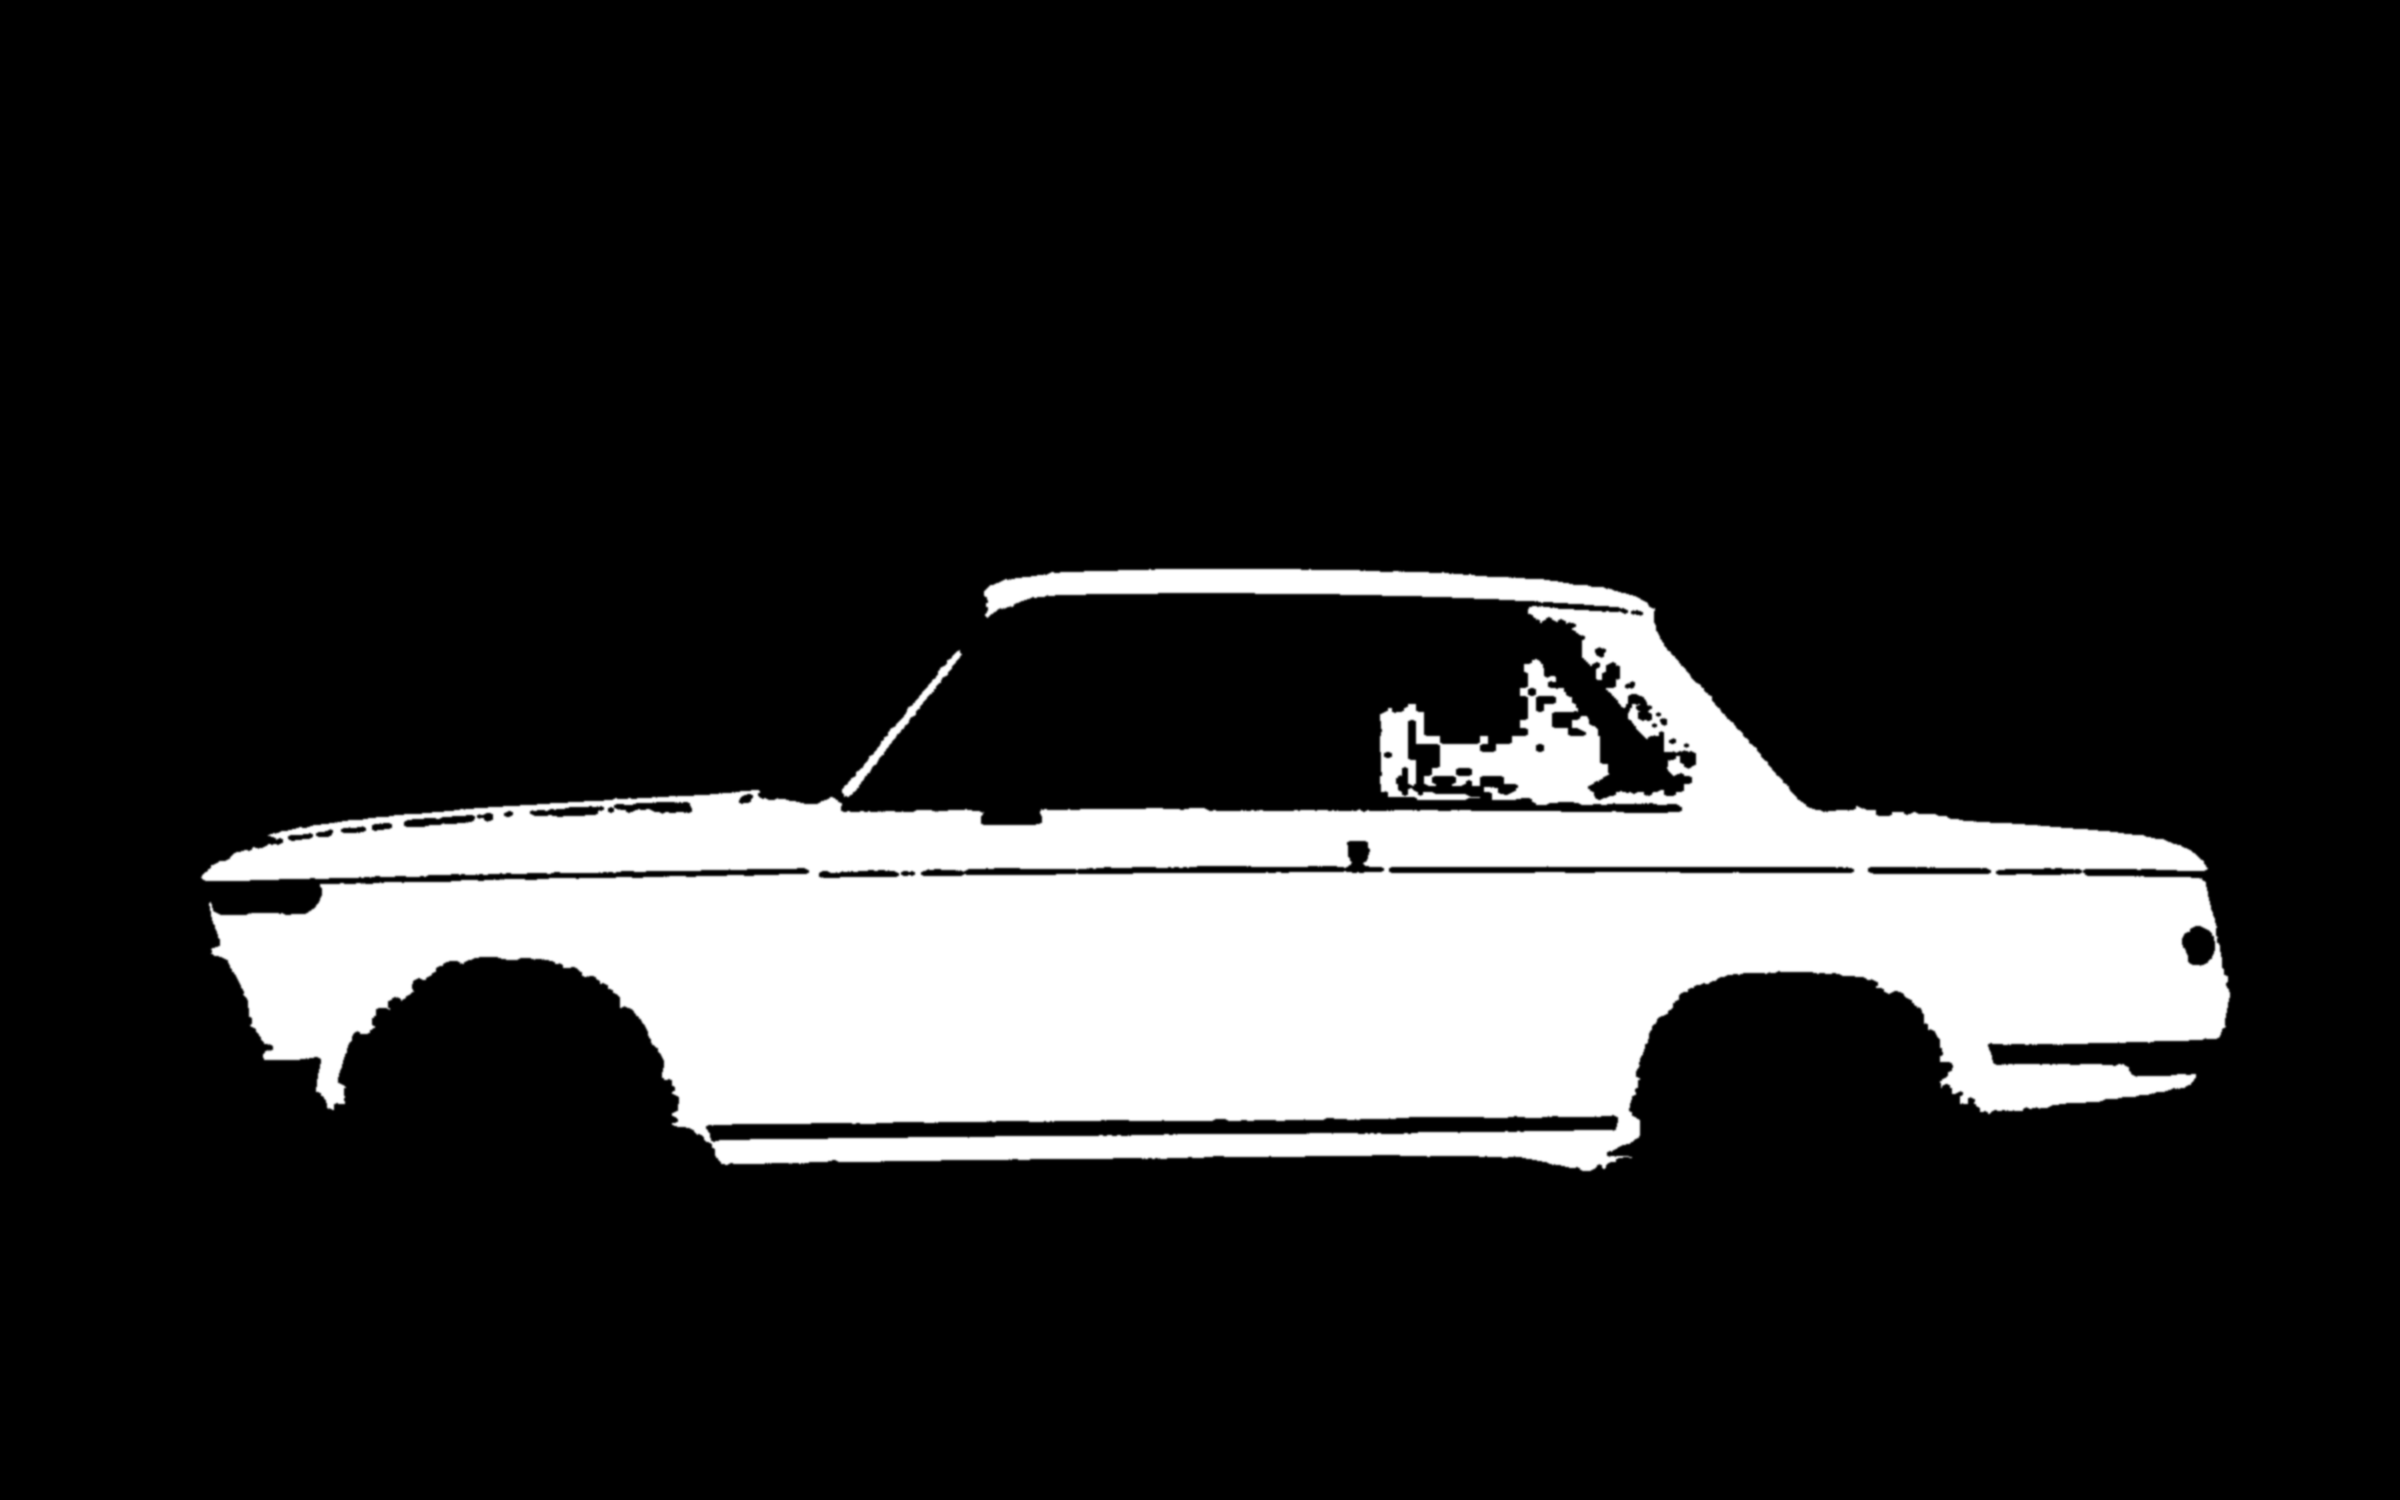
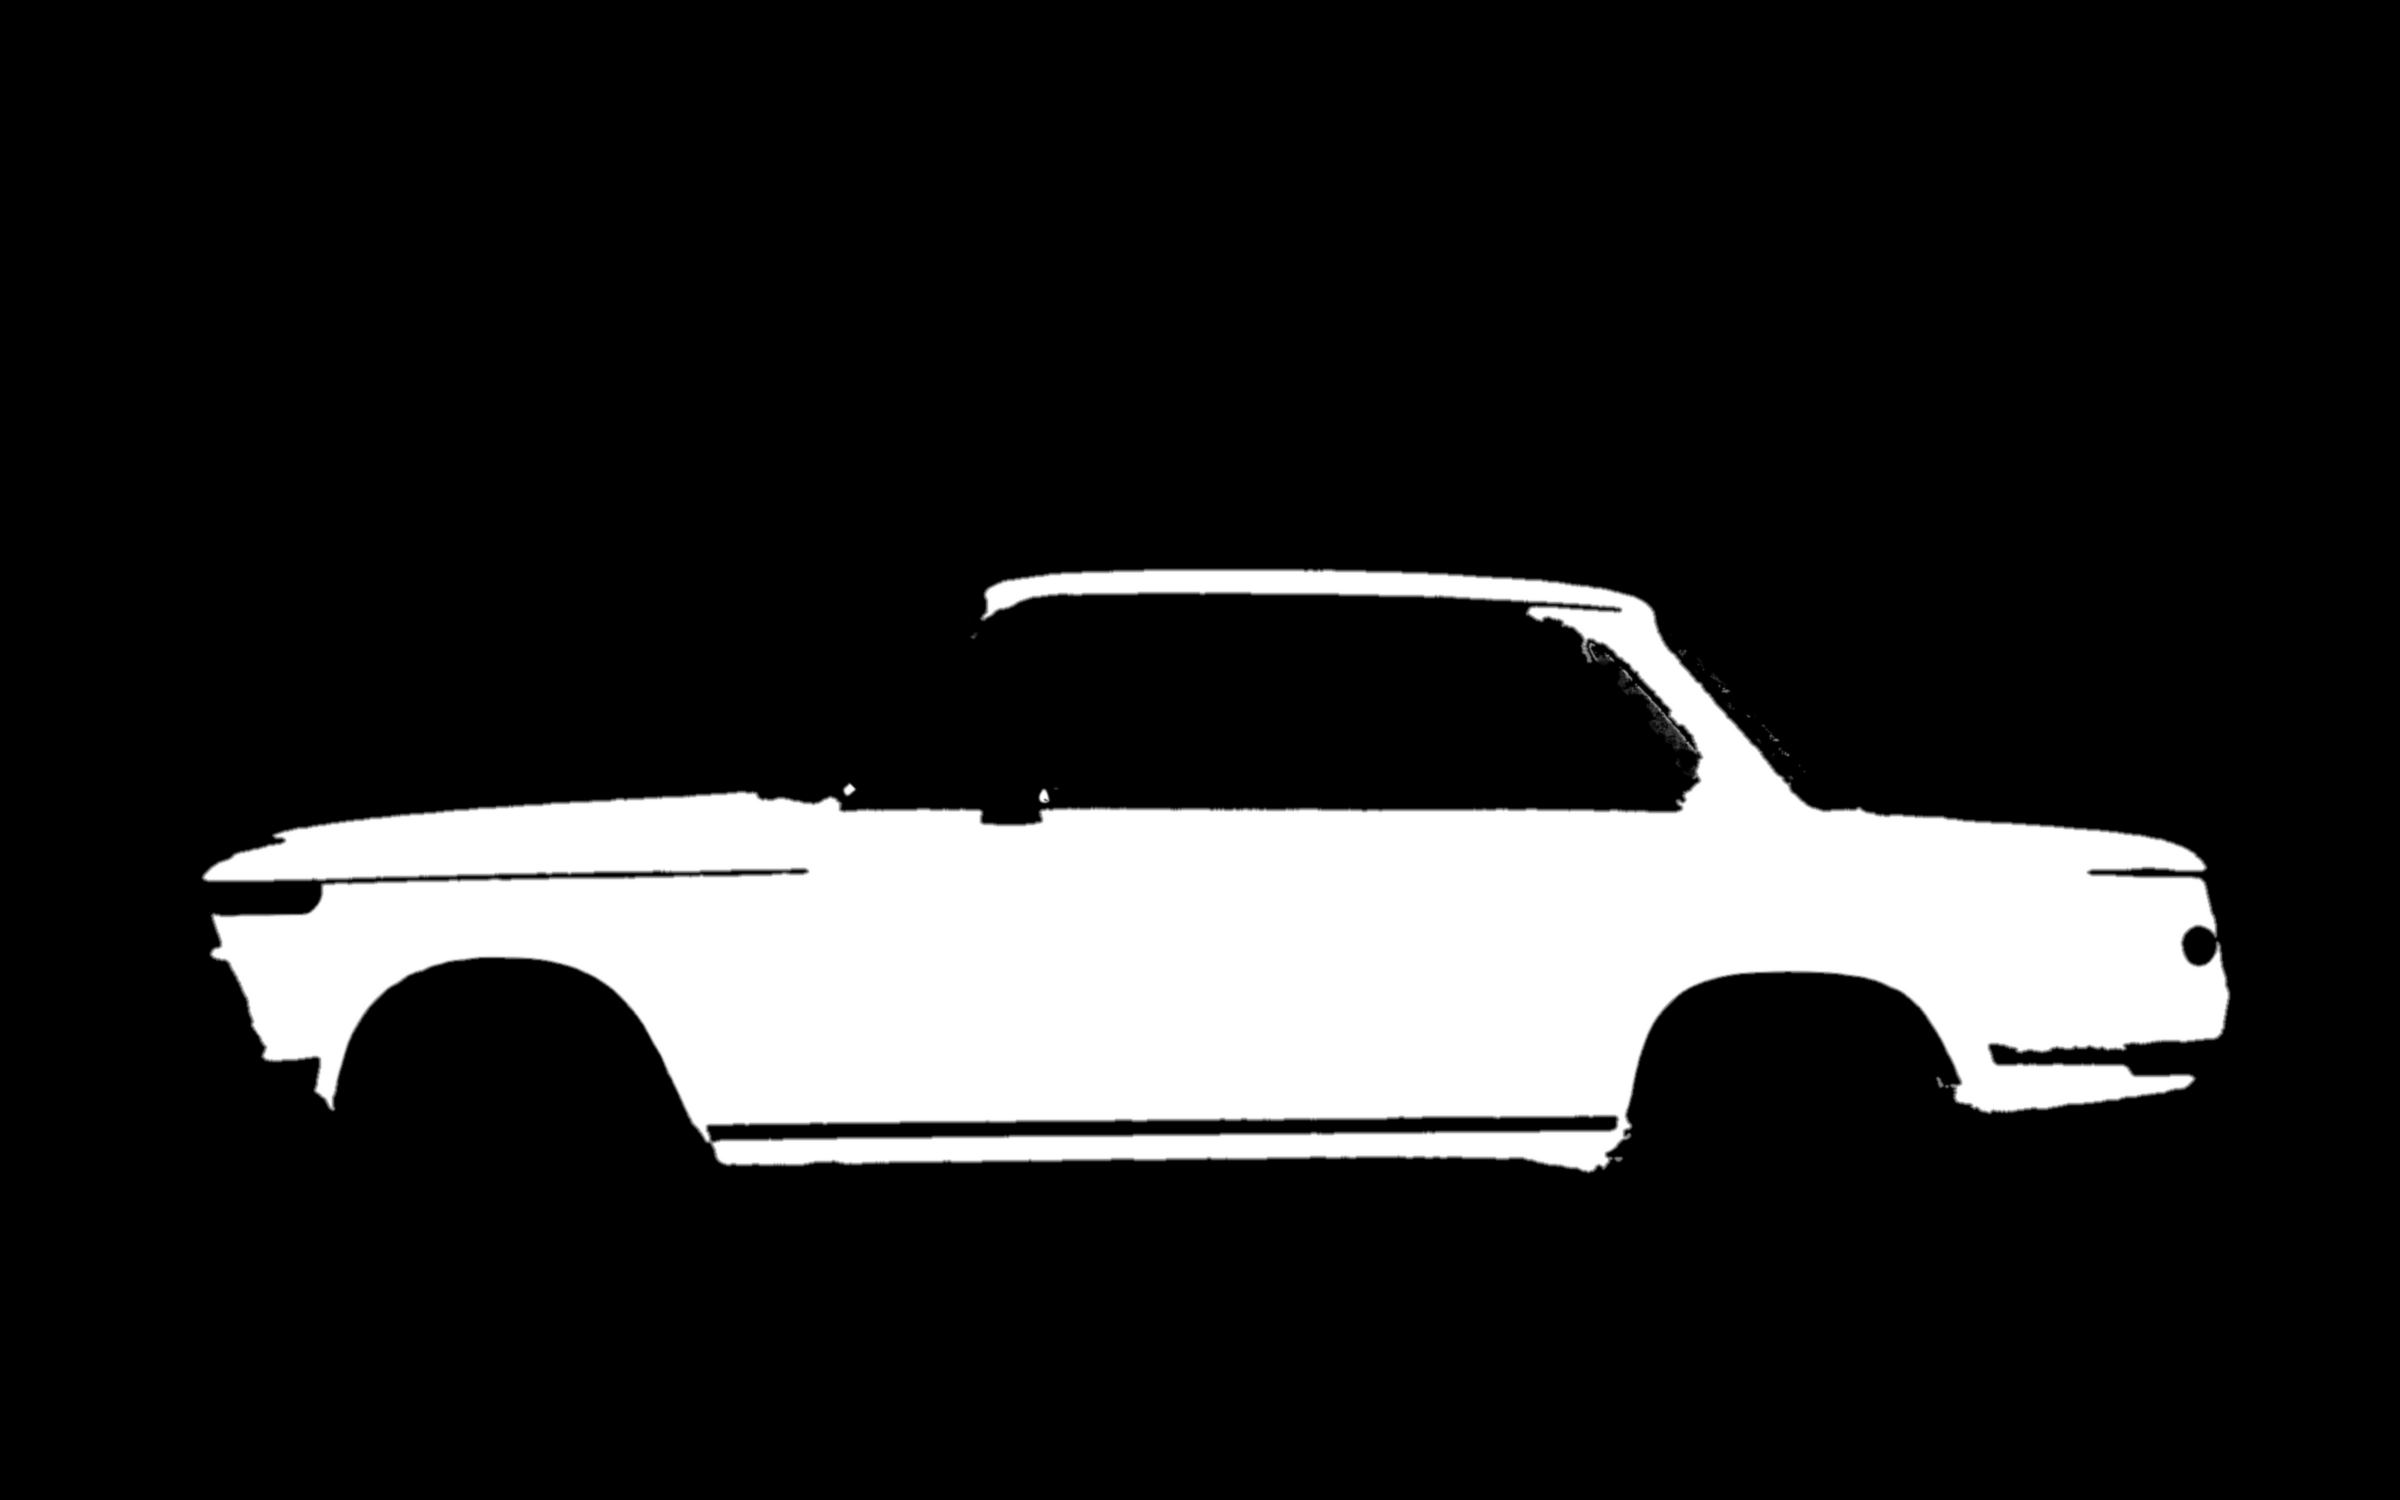
Konfigurator: Lackmasken ohne Flecken und Blockartefakte, Helligkeit linear umgerechnet (Schwarz bleibt schwarz, Glanz bleibt hell)
Claude-Session: https://claude.ai/code/session_01VYM2HYM7SGZ4tfKpLsvwsL

diff --git a/taeubert-website/konfigurator.html b/taeubert-website/konfigurator.html
@@ -1699,12 +1699,13 @@
       if (mask[i] > 230) { hL[Math.min(200, Math.round(L * 2))]++; hC[Math.min(300, Math.round(C * 2))]++; n++; }
     }
     const med = h => { let acc = 0; for (let k = 0; k < h.length; k++) { acc += h[k]; if (acc >= n / 2) return k / 2; } return 50; };
-    const Lm = med(hL), Cm = Math.max(1, med(hC)), gain = tL > 78 ? 0.8 : 1;
+    const Lm = med(hL), Cm = Math.max(1, med(hC)), Ym = Math.pow((Lm + 16) / 116, 3), tY = Math.pow((tL + 16) / 116, 3);
     for (let p = 0, i = 0; p < N; p++, i += 4) {
       const m = mask[i]; if (m < 4) continue;
       const w = m / 255, L = Ls[p], k = Math.min(Cs[p] / Cm, 1);
-      let nL = Math.max(0, Math.min(100, tL + (L - Lm) * gain));
-      if (L > Lm) { const spec = 1 - k; nL = nL * (1 - spec) + Math.max(nL, L) * spec; }   // farblose Glanzlichter bleiben hell
+      const Y = Math.pow((L + 16) / 116, 3);   // Helligkeit linear wie Licht: Schatten multiplikativ (Schwarz bleibt schwarz), Glanz zur Weiß-Seite
+      const nY = Y <= Ym ? tY * Y / Ym : tY + (1 - tY) * (Y - Ym) / Math.max(1 - Ym, 1e-3);
+      const nL = Math.max(0, Math.min(100, 116 * Math.cbrt(Math.max(0, Math.min(1, nY))) - 16));
       const [r, g, b] = lab2rgb(nL, tA * k, tB * k);
       d[i] = Math.round(d[i] * (1 - w) + r * w); d[i + 1] = Math.round(d[i + 1] * (1 - w) + g * w); d[i + 2] = Math.round(d[i + 2] * (1 - w) + b * w);
     }

diff --git a/taeubert-website/build_pages.py b/taeubert-website/build_pages.py
@@ -2418,12 +2418,13 @@ KONFIG_JS = r"""
       if (mask[i] > 230) { hL[Math.min(200, Math.round(L * 2))]++; hC[Math.min(300, Math.round(C * 2))]++; n++; }
     }
     const med = h => { let acc = 0; for (let k = 0; k < h.length; k++) { acc += h[k]; if (acc >= n / 2) return k / 2; } return 50; };
-    const Lm = med(hL), Cm = Math.max(1, med(hC)), gain = tL > 78 ? 0.8 : 1;
+    const Lm = med(hL), Cm = Math.max(1, med(hC)), Ym = Math.pow((Lm + 16) / 116, 3), tY = Math.pow((tL + 16) / 116, 3);
     for (let p = 0, i = 0; p < N; p++, i += 4) {
       const m = mask[i]; if (m < 4) continue;
       const w = m / 255, L = Ls[p], k = Math.min(Cs[p] / Cm, 1);
-      let nL = Math.max(0, Math.min(100, tL + (L - Lm) * gain));
-      if (L > Lm) { const spec = 1 - k; nL = nL * (1 - spec) + Math.max(nL, L) * spec; }   // farblose Glanzlichter bleiben hell
+      const Y = Math.pow((L + 16) / 116, 3);   // Helligkeit linear wie Licht: Schatten multiplikativ (Schwarz bleibt schwarz), Glanz zur Weiß-Seite
+      const nY = Y <= Ym ? tY * Y / Ym : tY + (1 - tY) * (Y - Ym) / Math.max(1 - Ym, 1e-3);
+      const nL = Math.max(0, Math.min(100, 116 * Math.cbrt(Math.max(0, Math.min(1, nY))) - 16));
       const [r, g, b] = lab2rgb(nL, tA * k, tB * k);
       d[i] = Math.round(d[i] * (1 - w) + r * w); d[i + 1] = Math.round(d[i + 1] * (1 - w) + g * w); d[i + 2] = Math.round(d[i + 2] * (1 - w) + b * w);
     }
